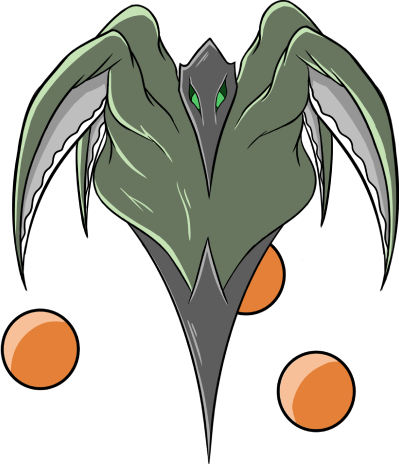
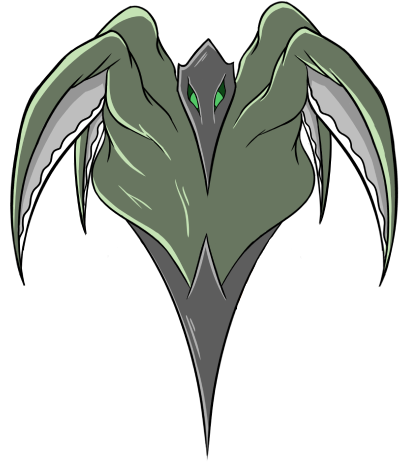
normal enemy done

diff --git a/src/man/EntityManager.cpp b/src/man/EntityManager.cpp
@@ -535,7 +535,7 @@ int EntityManager::createEnemy(GameEngine& gameContext, Vector2 position, float 
 
         // Render component
         renderComp.sprite = "Media/Images/Enemy.png";
-        renderComp.spriteRect = { 0, 248, 0, 360 };
+        renderComp.spriteRect = { 0, 988, 0, 1428 };
         renderComp.color = { 10, 20, 255, 255 };
 
         healthComp.maxHealth = 3;
@@ -551,7 +551,7 @@ int EntityManager::createEnemy(GameEngine& gameContext, Vector2 position, float 
         colliderComp.boundingRoot.bounding = { 0.f, 57.f, 0.f, 90.f };
 
         // Render component
-        renderComp.sprite = "Media/Images/Enemy.png";
+        renderComp.sprite = "Media/PNG/Alien Normal/enemySpritesheetSmall.png";
         renderComp.spriteRect = { 0, 248, 0, 360 };
 
         healthComp.maxHealth = 5;
@@ -560,6 +560,7 @@ int EntityManager::createEnemy(GameEngine& gameContext, Vector2 position, float 
         createComponent<AIMeleeAtkComponent>(entityId);
         JumpComponent& jumpComp = createComponent<JumpComponent>(entityId);
         SensorComponent& sensorComp = createComponent<SensorComponent>(entityId);
+        AnimationComponent& animComp = createComponent<AnimationComponent>(entityId);
 
         sensorComp.sensorLayerMasc = ColliderComponent::Player + ColliderComponent::Wall;
         sensorComp.sensorBounding = { 25.f, 55.f, 2.f, 60.f };
@@ -583,9 +584,9 @@ int EntityManager::createEnemy(GameEngine& gameContext, Vector2 position, float 
         situation.scale = { 0.27f, 0.27f };
         // Collider
         colliderComp.boundingRoot.bounding = { 0.f, 57.f, 0.f, 90.f };
-        
+
         // Render component
-        renderComp.sprite = "Media/Images/Enemy.png";
+        renderComp.sprite = "Media/PNG/Alien Normal/enemySpritesheetSmall.png";
         renderComp.spriteRect = { 0, 248, 0, 360 };
 
         healthComp.maxHealth = 5;
@@ -617,8 +618,9 @@ int EntityManager::createEnemy(GameEngine& gameContext, Vector2 position, float 
         // Collider
         colliderComp.boundingRoot.bounding = { 0.f, 57.f, 0.f, 90.f };
 
+        AnimationComponent& animComp = createComponent<AnimationComponent>(entityId);
         // Render component
-        renderComp.sprite = "Media/Images/Enemy.png";
+        renderComp.sprite = "Media/PNG/Alien Normal/enemySpritesheetSmall.png";
         renderComp.spriteRect = { 0, 248, 0, 360 };
         renderComp.color = { 238, 249, 14, 255 };
 
@@ -639,6 +641,7 @@ int EntityManager::createEnemy(GameEngine& gameContext, Vector2 position, float 
         distanceWeaponComp.attackLifetime = 1.f;
         distanceWeaponComp.bulletSpreadAngle = 5.f;
         distanceWeaponComp.infiniteAmmo = true;
+        distanceWeaponComp.spawnAttackPos = { 28.f, 25.f };
 
         colliderComp.weight = 3.f;
 
@@ -859,8 +862,74 @@ int EntityManager::createEnemy(GameEngine& gameContext, Vector2 position, float 
     //######### RENDER ########//
     gameContext.getWindowFacadeRef().createEntity(gameContext, entityId);
 
+    if (goType == GameObjectType::FLYING_SHOOTER_ENEMY) {
+        situation.sons.emplace_back(createBomberBalls(gameContext, entityId));
+    }
+    else if (goType == GameObjectType::DISTANCE_ENEMY || goType == GameObjectType::DISTANCE_WALKING_ENEMY) {
+        situation.sons.emplace_back(createEnemyBalls(gameContext, entityId));
+    }
+
     return entityId;
 }
+
+int EntityManager::createBomberBalls(GameEngine& gameContext, int bomberId) {
+    int entityId = Entity::getCurrentId();
+
+    SituationComponent& situation = createComponent<SituationComponent>(entityId);
+    RenderComponent& renderComp = createComponent<RenderComponent>(entityId);
+    AnimationComponent& animComp = createComponent<AnimationComponent>(entityId);
+
+    //######### DATA ########//
+    situation.position = { 0.f, 0.f };
+    situation.rotation = 0;
+    situation.noWorldDelete = true;
+    situation.father = bomberId;
+
+
+    // Render component
+    renderComp.sprite = "Media/PNG/Alien volador/Animacion Bolas/bomberBalls.png";
+    renderComp.spriteRect = { 0, 399, 0, 464 };
+
+    //######### CREATE ########//
+    entityMap.emplace(std::piecewise_construct, std::forward_as_tuple(entityId), std::forward_as_tuple(EntityType::BALLS, GameObjectType::BOMBER_BALLS));
+
+    //######### RENDER ########//
+    gameContext.getWindowFacadeRef().createEntity(gameContext, entityId);
+
+    AnimationManager::setAnimationToEntity(gameContext, Animation::IDLE, animComp);
+
+    return entityId;
+}
+
+int EntityManager::createEnemyBalls(GameEngine& gameContext, int bomberId) {
+    int entityId = Entity::getCurrentId();
+
+    SituationComponent& situation = createComponent<SituationComponent>(entityId);
+    RenderComponent& renderComp = createComponent<RenderComponent>(entityId);
+    AnimationComponent& animComp = createComponent<AnimationComponent>(entityId);
+
+    //######### DATA ########//
+    situation.position = { 0.f, 0.f };
+    situation.rotation = 0;
+    situation.noWorldDelete = true;
+    situation.father = bomberId;
+
+
+    // Render component
+    renderComp.sprite = "Media/PNG/Alien que dispara/Animacion bolas/enemyBallsSpritesheet.png";
+    renderComp.spriteRect = { 0, 248, 0, 360 };
+
+    //######### CREATE ########//
+    entityMap.emplace(std::piecewise_construct, std::forward_as_tuple(entityId), std::forward_as_tuple(EntityType::BALLS, GameObjectType::ENEMY_BALLS));
+
+    //######### RENDER ########//
+    gameContext.getWindowFacadeRef().createEntity(gameContext, entityId);
+
+    AnimationManager::setAnimationToEntity(gameContext, Animation::IDLE, animComp);
+
+    return entityId;
+}
+
 
 
 int EntityManager::createWeapon(GameEngine& gameContext, Vector2 position, float r, GameObjectType goType) {

diff --git a/src/tools/AnimationManager.cpp b/src/tools/AnimationManager.cpp
@@ -88,6 +88,26 @@ void AnimationManager::setRunningAnimation(GameEngine& gameContext, const Animat
 		animationComp.nextFrameAdvance = 512;
 		animationComp.hasToEnd = false;
 		break;
+
+	case GameObjectType::CHASERJUMPER:
+		animationComp.animation = animation;
+		animationComp.framerate = 0.1f;
+		animationComp.repeat = true;
+		animationComp.startSpriteRect = { 0, 248, 0, 360 };
+		animationComp.totalFrames = 4;
+		animationComp.nextFrameAdvance = 248;
+		animationComp.hasToEnd = false;
+		break;
+
+	case GameObjectType::DISTANCE_WALKING_ENEMY:
+		animationComp.animation = animation;
+		animationComp.framerate = 0.1f;
+		animationComp.repeat = true;
+		animationComp.startSpriteRect = { 0, 248, 0, 360 };
+		animationComp.totalFrames = 4;
+		animationComp.nextFrameAdvance = 248;
+		animationComp.hasToEnd = false;
+		break;
 	}
 }
 
@@ -142,6 +162,46 @@ void AnimationManager::setIdleAnimation(GameEngine& gameContext, const Animation
 		animationComp.startSpriteRect = { 8, 494, 133, 316 };
 		animationComp.totalFrames = 1;
 		animationComp.nextFrameAdvance = 512;
+		animationComp.hasToEnd = false;
+		break;
+
+	case GameObjectType::BOMBER_BALLS:
+		animationComp.animation = animation;
+		animationComp.framerate = 0.15f;
+		animationComp.repeat = true;
+		animationComp.startSpriteRect = { 0, 399, 0, 464 };
+		animationComp.totalFrames = 3;
+		animationComp.nextFrameAdvance = 399;
+		animationComp.hasToEnd = false;
+		break;
+
+	case GameObjectType::ENEMY_BALLS:
+		animationComp.animation = animation;
+		animationComp.framerate = 0.15f;
+		animationComp.repeat = true;
+		animationComp.startSpriteRect = { 0, 248, 0, 360 };
+		animationComp.totalFrames = 3;
+		animationComp.nextFrameAdvance = 248;
+		animationComp.hasToEnd = false;
+		break;
+
+	case GameObjectType::CHASERJUMPER:
+		animationComp.animation = animation;
+		animationComp.framerate = 0.01f;
+		animationComp.repeat = false;
+		animationComp.startSpriteRect = { 0, 248, 0, 360 };
+		animationComp.totalFrames = 1;
+		animationComp.nextFrameAdvance = 248;
+		animationComp.hasToEnd = false;
+		break;
+
+	case GameObjectType::DISTANCE_WALKING_ENEMY:
+		animationComp.animation = animation;
+		animationComp.framerate = 0.01f;
+		animationComp.repeat = false;
+		animationComp.startSpriteRect = { 0, 248, 0, 360 };
+		animationComp.totalFrames = 1;
+		animationComp.nextFrameAdvance = 248;
 		animationComp.hasToEnd = false;
 		break;
 	}

diff --git a/src/man/EntityManager.hpp b/src/man/EntityManager.hpp
@@ -99,6 +99,8 @@ public:
     int createAttack(GameEngine& gameContext, Vector2 position, float r, GameObjectType goType = GameObjectType::NONE);
     int createWall(GameEngine& gameContext, Vector2 position, Vector2 size, float r, std::string texturePath = "", GameObjectType goType = GameObjectType::NONE);
     int createEnemy(GameEngine& gameContext, Vector2 position, float r, GameObjectType goType = GameObjectType::NONE);
+    int createBomberBalls(GameEngine& gameContext, int bomberId);
+    int createEnemyBalls(GameEngine& gameContext, int bomberId);
     int createDrone(GameEngine& gameContext, Vector2 position, float r, GameObjectType goType);
     int createWeapon(GameEngine& gameContext, Vector2 position, float r, GameObjectType goType = GameObjectType::NONE);
     int createCamera(GameEngine& gameContext, Vector2 position, float r, GameObjectType goType = GameObjectType::NONE);

diff --git a/src/sys/AI/AIChaseSystem.cpp b/src/sys/AI/AIChaseSystem.cpp
@@ -3,6 +3,7 @@
 #include <eng/GameEngine.hpp>
 #include <tools/Utils.hpp>
 #include <iostream>
+#include <tools/AnimationManager.hpp>
 
 AIChaseSystem::AIChaseSystem() {}
 
@@ -64,6 +65,17 @@ void AIChaseSystem::chaseObjective(GameEngine& gameContext, AIChaseComponent& ch
 					chaserVel.velocity.y = chaserJump.impulse;
 				}
 			}
+		}
+	}
+
+	if (gameContext.entityMan->existsComponent<AnimationComponent>(chaseComp.id)) {
+		AnimationComponent& animComp = gameContext.entityMan->getComponent<AnimationComponent>(chaseComp.id);
+
+		if (chaserVel.velocity.x != 0) {
+			AnimationManager::setAnimationToEntity(gameContext, Animation::RUNNING, animComp);
+		}
+		else {
+			AnimationManager::setAnimationToEntity(gameContext, Animation::IDLE, animComp);
 		}
 	}
 }

diff --git a/src/sys/HealthSystem.cpp b/src/sys/HealthSystem.cpp
@@ -61,7 +61,7 @@ void HealthSystem::manageHeatlths(GameEngine& gameContext) const {
                 gameContext.getSoundFacadeRef().playSound(health.damageSound);
 
                 if (gameContext.entityMan->existsComponent<AnimationComponent>(health.id)) { // Damage animation
-                    AnimationComponent& animComp = gameContext.entityMan->getComponent<AnimationComponent>(WorldElementsData::playerId);
+                    AnimationComponent& animComp = gameContext.entityMan->getComponent<AnimationComponent>(health.id);
                     AnimationManager::setAnimationToEntity(gameContext, Animation::TAKING_DAMAGE, animComp);
                 }
             }

diff --git a/src/sys/BombSystem.cpp b/src/sys/BombSystem.cpp
@@ -94,5 +94,6 @@ void BombSystem::setRotation(GameEngine& gameContext, BombComponent& bombComp) c
 	VelocityComponent& bombVel = gameContext.entityMan->getComponent<VelocityComponent>(bombComp.id);
 	SituationComponent& bombSit = gameContext.entityMan->getComponent<SituationComponent>(bombComp.id);
 
-	bombSit.rotation = Utils::getRoltationFromVector2(bombVel.velocity);
+	if(bombVel.velocity.x != 0 || bombVel.velocity.y != 0)
+		bombSit.rotation = Utils::getRoltationFromVector2(bombVel.velocity);
 }

diff --git a/src/enum/GameObjectType.hpp b/src/enum/GameObjectType.hpp
@@ -121,5 +121,9 @@ enum class GameObjectType {
     CHILD,
 
     // Text
-    TEXT
+    TEXT,
+
+    BOMBER_BALLS,
+    ENEMY_BALLS
+
 };

diff --git a/src/enum/EntityType.hpp b/src/enum/EntityType.hpp
@@ -23,5 +23,6 @@ enum class EntityType {
     ORBITAL_STRIKER,
     TURRET,
     CHILD,
-    TEXT
+    TEXT,
+    BALLS
 };
